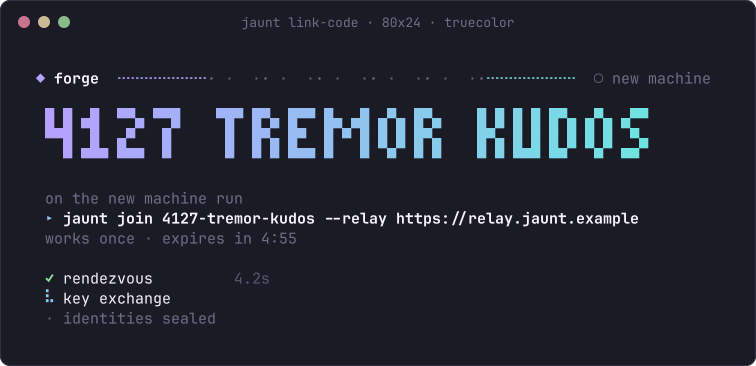
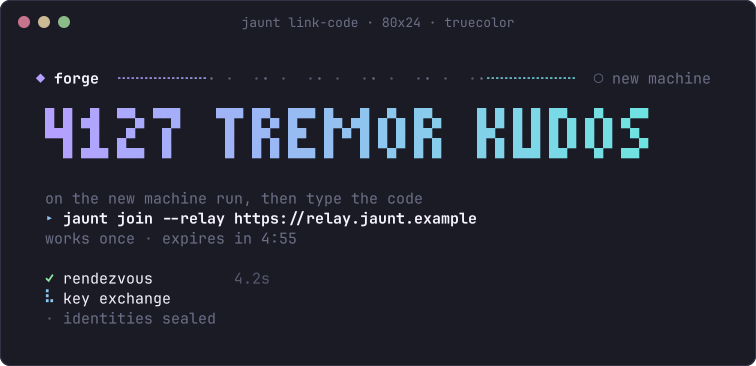
Verification fixes: R1 tombstone overflow, revoked SIGHUP-immune exec, join hint
- roster: a tombstone counts as "known" only once its entry is actually taken;
  junk carrying entries + matching tombstones could fill the tombstones to the
  limit and make every later revocation (remote or local unlink) fail validate.
- daemon: on revocation, let the serving future run up to 3 s instead of
  dropping it at once, so kill_peer's follow-up SIGKILL still reaches a command
  that ignores SIGHUP (it used to survive the unlink); e2e 03 covers it.
- ritual: the inviter's screen no longer tells the owner to put the code on
  the new machine's command line (PAIR-2).
- client tmux runs by absolute path (L2); remaining peer refusal and close
  reasons cleaned before they can reach a terminal (R5).
- captures and measurements regenerated from the musl release build.

Changed region(s): [[0.213, 0.5109, 0.8519, 0.6311]]

diff --git a/src/roster.rs b/src/roster.rs
@@ -246,21 +246,28 @@ impl Roster {
     pub fn merge_bounded(&mut self, other: &Roster) -> (bool, usize) {
         let before = self.clone();
         let mut skipped = 0;
+        // Invariant that keeps every later tombstone for a known id possible: each tombstone
+        // either has an entry here, or is one of at most MAX_FOREIGN_TOMBSTONES without, so
+        // tombstones <= MAX_ENTRIES + MAX_FOREIGN_TOMBSTONES = MAX_TOMBSTONES always. An
+        // entry that only `other` carries does not make its tombstone "known" until the entry
+        // is actually taken (the entries may be full); such tombstones wait for the entries.
+        let mut later = Vec::new();
+        let take_tombstone = |me: &mut Roster, id: &MachineId, theirs: &Tombstone, skipped: &mut usize| {
+            let foreign = me.tombstones.keys().filter(|t| !me.entries.contains_key(t)).count();
+            if me.entries.contains_key(id) || foreign < MAX_FOREIGN_TOMBSTONES {
+                me.tombstones.insert(*id, theirs.clone());
+            } else {
+                *skipped += 1;
+            }
+        };
         for (id, theirs) in &other.tombstones {
             match self.tombstones.get(id) {
                 Some(ours) if (ours.revoked_at, ours.revoked_by) <= (theirs.revoked_at, theirs.revoked_by) => {}
                 Some(_) => {
                     self.tombstones.insert(*id, theirs.clone());
                 }
-                None => {
-                    let known = self.entries.contains_key(id) || other.entries.contains_key(id);
-                    let foreign = self.tombstones.keys().filter(|t| !self.entries.contains_key(t)).count();
-                    if known || foreign < MAX_FOREIGN_TOMBSTONES {
-                        self.tombstones.insert(*id, theirs.clone());
-                    } else {
-                        skipped += 1;
-                    }
-                }
+                None if !self.entries.contains_key(id) && other.entries.contains_key(id) => later.push((id, theirs)),
+                None => take_tombstone(self, id, theirs, &mut skipped),
             }
         }
         for (id, theirs) in &other.entries {
@@ -270,7 +277,7 @@ impl Roster {
                     self.entries.insert(*id, theirs.clone());
                 }
                 None => {
-                    let revoked = self.tombstones.contains_key(id);
+                    let revoked = self.tombstones.contains_key(id) || other.tombstones.contains_key(id);
                     let room = self.entries.len() < MAX_ENTRIES && (revoked || self.members().count() < MAX_MEMBERS);
                     if room {
                         self.entries.insert(*id, theirs.clone());
@@ -279,6 +286,9 @@ impl Roster {
                     }
                 }
             }
+        }
+        for (id, theirs) in later {
+            take_tombstone(self, id, theirs, &mut skipped);
         }
         let rank = |f: &Fleet| (f.updated_at, f.updated_by, f.relays.clone());
         if rank(&other.fleet) > rank(&self.fleet) {
@@ -712,6 +722,50 @@ mod tests {
         let mut naive = roster(&[entry(1, "a", 1, 1), entry(2, "b", 2, 1), entry(3, "c", 3, 1)], &[]);
         naive.merge(&from_a);
         assert!(naive.validate().is_err());
+    }
+
+    /// R1, variation (found in verification): junk whose tombstones name ids that the same
+    /// junk roster also carries as entries. Those tombstones used to count as "known" even
+    /// when the entries themselves were not taken (entries full), so a pusher could fill the
+    /// tombstones exactly to the limit; from then on every later tombstone, a remote one or
+    /// a local `unlink`, failed `validate` and was refused whole. Runs the daemon's path:
+    /// sanitize, drop_malformed, merge_bounded, validate.
+    #[test]
+    fn junk_with_matching_entries_cannot_fill_the_tombstones() {
+        let kid = |n: u32| {
+            let mut s = [0u8; 32];
+            s[..4].copy_from_slice(&n.to_be_bytes());
+            s[31] = 0x5a;
+            MachineId::from_endpoint(&iroh::SecretKey::from_bytes(&s).public())
+        };
+        let take = |r: &mut Roster, theirs: &Roster| -> Result<()> {
+            let mut theirs = theirs.clone();
+            theirs.sanitize_remote();
+            theirs.drop_malformed();
+            let mut m = r.clone();
+            m.merge_bounded(&theirs);
+            m.validate()?;
+            *r = m;
+            Ok(())
+        };
+        let mut b = roster(&[entry(1, "a", 1, 1), entry(2, "b", 2, 1), entry(3, "c", 3, 1)], &[]);
+        let mut junk = Roster::default();
+        for n in 0..MAX_TOMBSTONES as u32 {
+            let j = kid(n);
+            junk.entries.insert(j, Entry { id: j, name: "x".into(), added_at: 9, added_by: id(3), named_at: 9 });
+            junk.tombstones.insert(j, Tombstone { id: j, revoked_at: 9, revoked_by: id(3) });
+        }
+        let _ = take(&mut b, &junk);
+        assert!(b.tombstones.len() <= MAX_ENTRIES.min(b.entries.len()) + MAX_FOREIGN_TOMBSTONES);
+        // a tells b that c is revoked: it must get through.
+        let mut from_a = Roster::default();
+        from_a.tombstones.insert(id(3), Tombstone { id: id(3), revoked_at: 50, revoked_by: id(1) });
+        take(&mut b, &from_a).expect("a revocation was refused after the junk");
+        assert!(!b.is_member(&id(3)));
+        // And so must a local unlink of a member here.
+        let mut local = b.clone();
+        local.revoke(id(2), id(1), 60);
+        local.validate().expect("a local unlink was refused after the junk");
     }
 
     #[test]

diff --git a/src/daemon.rs b/src/daemon.rs
@@ -43,6 +43,9 @@ const ABSENT_AFTER_MS: u64 = 60_000;
 const TICK_GAP_MS: u64 = 5_000;
 /// How long a gated request waits for the settling round (it is bounded by SETTLE_LIMIT).
 const SETTLE_WAIT: Duration = Duration::from_secs(8);
+/// How long a revoked peer's stream may still run so that the process it started gets the
+/// follow-up SIGKILL (`children::kill_peer` sends it after 1 s).
+const REVOKED_GRACE: Duration = Duration::from_secs(3);
 
 #[derive(Default)]
 struct Peer {
@@ -158,7 +161,7 @@ pub fn describe_close(e: &ConnectionError) -> String {
     match e {
         ConnectionError::TimedOut => "no answer for 30 s (timed out)".into(),
         ConnectionError::ApplicationClosed(c) => {
-            let why = String::from_utf8_lossy(&c.reason).to_string();
+            let why = crate::term::safe_text(&String::from_utf8_lossy(&c.reason), 200, false);
             if why.is_empty() { "closed by the other side".into() } else { format!("closed by the other side: {why}") }
         }
         ConnectionError::LocallyClosed => "closed here".into(),
@@ -752,10 +755,16 @@ impl Daemon {
             }
         }
         let served = self.clone().serve_service(conn, id, hello.service, send, recv);
+        tokio::pin!(served);
         // R3: whatever a peer runs here ends when it is revoked, streams included.
         tokio::select! {
-            r = served => r,
+            r = &mut served => r,
             _ = self.until_revoked(id) => {
+                // Not dropped at once: the serving future holds the process's registration
+                // (`children::Ticket`), and `kill_peer` sends its SIGKILL a second after the
+                // SIGHUP only to processes still registered. Dropping it here would let a
+                // command that ignores SIGHUP outlive the revocation.
+                let _ = timeout(REVOKED_GRACE, &mut served).await;
                 tracing::info!("ended a stream of {}: it was unlinked", id.short());
                 Ok(())
             }
@@ -873,7 +882,7 @@ impl Daemon {
         proto::write_json(&mut send, FrameType::Json, ours).await?;
         let reply: Reply = proto::parse_json(&proto::expect_frame(&mut recv, FrameType::Reply).await?, MAX_HEADER)?;
         if let Reply::Refused { reason } = reply {
-            bail!("sync refused: {reason}");
+            bail!("sync refused: {}", crate::term::safe_text(&reason, 300, false));
         }
         let theirs: Roster = proto::parse_json(&proto::expect_frame(&mut recv, FrameType::Json).await?, MAX_FRAME)?;
         let _ = send.finish();
@@ -1486,7 +1495,8 @@ pub async fn open_service(conn: &Connection, service: Service) -> Result<(SendSt
     let reply: Reply = proto::parse_json(&proto::expect_frame(&mut recv, FrameType::Reply).await?, MAX_HEADER)?;
     match reply {
         Reply::Ok => Ok((send, recv)),
-        Reply::Refused { reason } => bail!("refused: {reason}"),
+        // Peer text; it can end up on this machine's terminal (unlink's report, R5).
+        Reply::Refused { reason } => bail!("refused: {}", crate::term::safe_text(&reason, 300, false)),
     }
 }
 

diff --git a/src/ui/ritual.rs b/src/ui/ritual.rs
@@ -259,9 +259,11 @@ pub fn draw(st: &State, w: u16, now: u64) -> Canvas {
                     y += 2;
                 }
             }
-            c.text(3, y, "on the new machine run", Style::fg(theme::DIM));
+            // The code is typed when `jaunt join` asks for it, never put on the command line,
+            // where every local user of the new machine could read it while it runs (PAIR-2).
+            c.text(3, y, "on the new machine run, then type the code", Style::fg(theme::DIM));
             y += 1;
-            let head = format!("jaunt join {code}");
+            let head = "jaunt join".to_string();
             let tail = st.relay.as_ref().map(|r| format!("--relay {r}"));
             let room = w.saturating_sub(6);
             let cmd_st = Style::fg(theme::WHITE).bold();
@@ -511,7 +513,7 @@ pub fn plain_lines(u: &PairUpdate) -> Vec<String> {
             }
             v.push(format!("code: {code}   (works once, for 5 minutes)"));
             let relay = relays.first().map(|r| format!(" --relay {r}")).unwrap_or_default();
-            v.push(format!("on the new machine run:  jaunt join {code}{relay}"));
+            v.push(format!("on the new machine run:  jaunt join{relay}   (then type the code when it asks)"));
             v.push("waiting for the other machine...".into());
             v
         }
@@ -711,5 +713,23 @@ mod tests {
         assert!(!line.chars().any(|c| c.is_control()), "{line:?}");
         assert!(line.starts_with("jaunt: the other machine stopped"));
         assert_eq!(plain_finish(true, "linked fern"), "linked fern");
+    }
+
+    /// PAIR-2: the inviter's screen must not tell the owner to put the code in argv on the
+    /// new machine (the process list shows it to every local user there).
+    #[test]
+    fn the_join_hint_keeps_the_code_off_the_command_line() {
+        let code = "4127-tremor-kudos".to_string();
+        let u = PairUpdate {
+            role: PairRole::Inviter,
+            step: PairStep::Waiting { code: code.clone(), expires_at_ms: 0, relays: vec!["https://r.example".into()], first_machine: false },
+        };
+        let lines = plain_lines(&u);
+        let hint = lines.iter().find(|l| l.contains("jaunt join")).expect("a join hint");
+        assert!(!hint.contains(&code), "{hint}");
+        let mut st = State::new(PairRole::Inviter, "a", None, 0);
+        st.apply(&u, 0, true);
+        let text: String = draw(&st, 100, 0).lines(theme::ColorMode::Plain).join("\n");
+        assert!(!text.lines().any(|l| l.contains("jaunt join") && l.contains("4127")), "{text}");
     }
 }

diff --git a/src/shell.rs b/src/shell.rs
@@ -284,10 +284,16 @@ fn tmux_hint_once(paths: &Paths, peer: &str) {
     if marker.exists() {
         return;
     }
-    let snippet = std::process::Command::new("tmux")
-        .args(["show-options", "-gqv", "@jaunt_tmux"])
-        .stderr(std::process::Stdio::null())
-        .output()
+    // By absolute path (L2): an empty or relative PATH entry must not pick up a `tmux`
+    // planted in whatever directory this command runs in.
+    let snippet = which("tmux")
+        .and_then(|tmux| {
+            std::process::Command::new(tmux)
+                .args(["show-options", "-gqv", "@jaunt_tmux"])
+                .stderr(std::process::Stdio::null())
+                .output()
+                .ok()
+        })
         .map(|o| o.stdout.starts_with(b"1"))
         .unwrap_or(false);
     if !snippet {

diff --git a/src/ui/live.rs b/src/ui/live.rs
@@ -62,7 +62,9 @@ fn open_window(name: &str) -> Result<i32> {
         bail!("'{name}' is not a machine name jaunt can pass to tmux");
     }
     let exe = std::env::current_exe()?;
-    let status = std::process::Command::new("tmux").arg("new-window").arg("-n").arg(name).arg(exe).arg("hop").arg(name).status()?;
+    // By absolute path (L2), never through an empty or relative PATH entry.
+    let tmux = crate::shell::which("tmux").ok_or_else(|| anyhow::anyhow!("tmux is not on PATH"))?;
+    let status = std::process::Command::new(tmux).arg("new-window").arg("-n").arg(name).arg(exe).arg("hop").arg(name).status()?;
     Ok(if status.success() { 0 } else { 1 })
 }
 

diff --git a/docs/measurements.md b/docs/measurements.md
@@ -1,29 +1,29 @@
 # Measurements
 
-Generated by `test/e2e/09-latency.sh` on 2026-10-04 (repository at db4ae30, plus uncommitted work).
+Generated by `test/e2e/09-latency.sh` on 2026-10-04 (repository at 65688fc, plus uncommitted work).
 It is a simulation. Read the caveats before quoting any number.
 
 ## Keystroke round trip
 
 | harness delay | path | samples | median (ms) | p95 (ms) |
 | --- | --- | --- | --- | --- |
-| 0 ms | jaunt direct | 200 | 0.62 | 1.74 |
-| 0 ms | ssh via relay host (ObscureKeystrokeTiming default) | 200 | 11.17 | 12.87 |
-| 0 ms | ssh via relay host (ObscureKeystrokeTiming=no) | 200 | 0.7 | 1.24 |
-| 0 ms | jaunt relayed | 200 | 0.89 | 1.42 |
-| 20 ms | jaunt direct | 200 | 80.79 | 81.56 |
-| 20 ms | ssh via relay host (ObscureKeystrokeTiming default) | 200 | 133.44 | 136.26 |
-| 20 ms | ssh via relay host (ObscureKeystrokeTiming=no) | 200 | 120.95 | 122.52 |
-| 20 ms | jaunt relayed | 200 | 120.79 | 121.75 |
+| 0 ms | jaunt direct | 200 | 0.6 | 1.75 |
+| 0 ms | ssh via relay host (ObscureKeystrokeTiming default) | 200 | 10.0 | 11.87 |
+| 0 ms | ssh via relay host (ObscureKeystrokeTiming=no) | 200 | 0.51 | 0.74 |
+| 0 ms | jaunt relayed | 200 | 0.98 | 2.33 |
+| 20 ms | jaunt direct | 200 | 80.84 | 81.88 |
+| 20 ms | ssh via relay host (ObscureKeystrokeTiming default) | 200 | 138.63 | 141.54 |
+| 20 ms | ssh via relay host (ObscureKeystrokeTiming=no) | 200 | 120.87 | 121.48 |
+| 20 ms | jaunt relayed | 200 | 121.17 | 121.94 |
 
 Reference round trips measured with `ping` from a in the same runs:
 
 | harness delay | to | mean of 5 (ms) |
 | --- | --- | --- |
-| 0 ms | a->relay | 0.068 |
-| 0 ms | a->b's router | 0.090 |
-| 20 ms | a->relay | 60.132 |
-| 20 ms | a->b's router | 60.094 |
+| 0 ms | a->relay | 0.078 |
+| 0 ms | a->b's router | 0.067 |
+| 20 ms | a->relay | 60.127 |
+| 20 ms | a->b's router | 60.109 |
 
 ## Method
 
